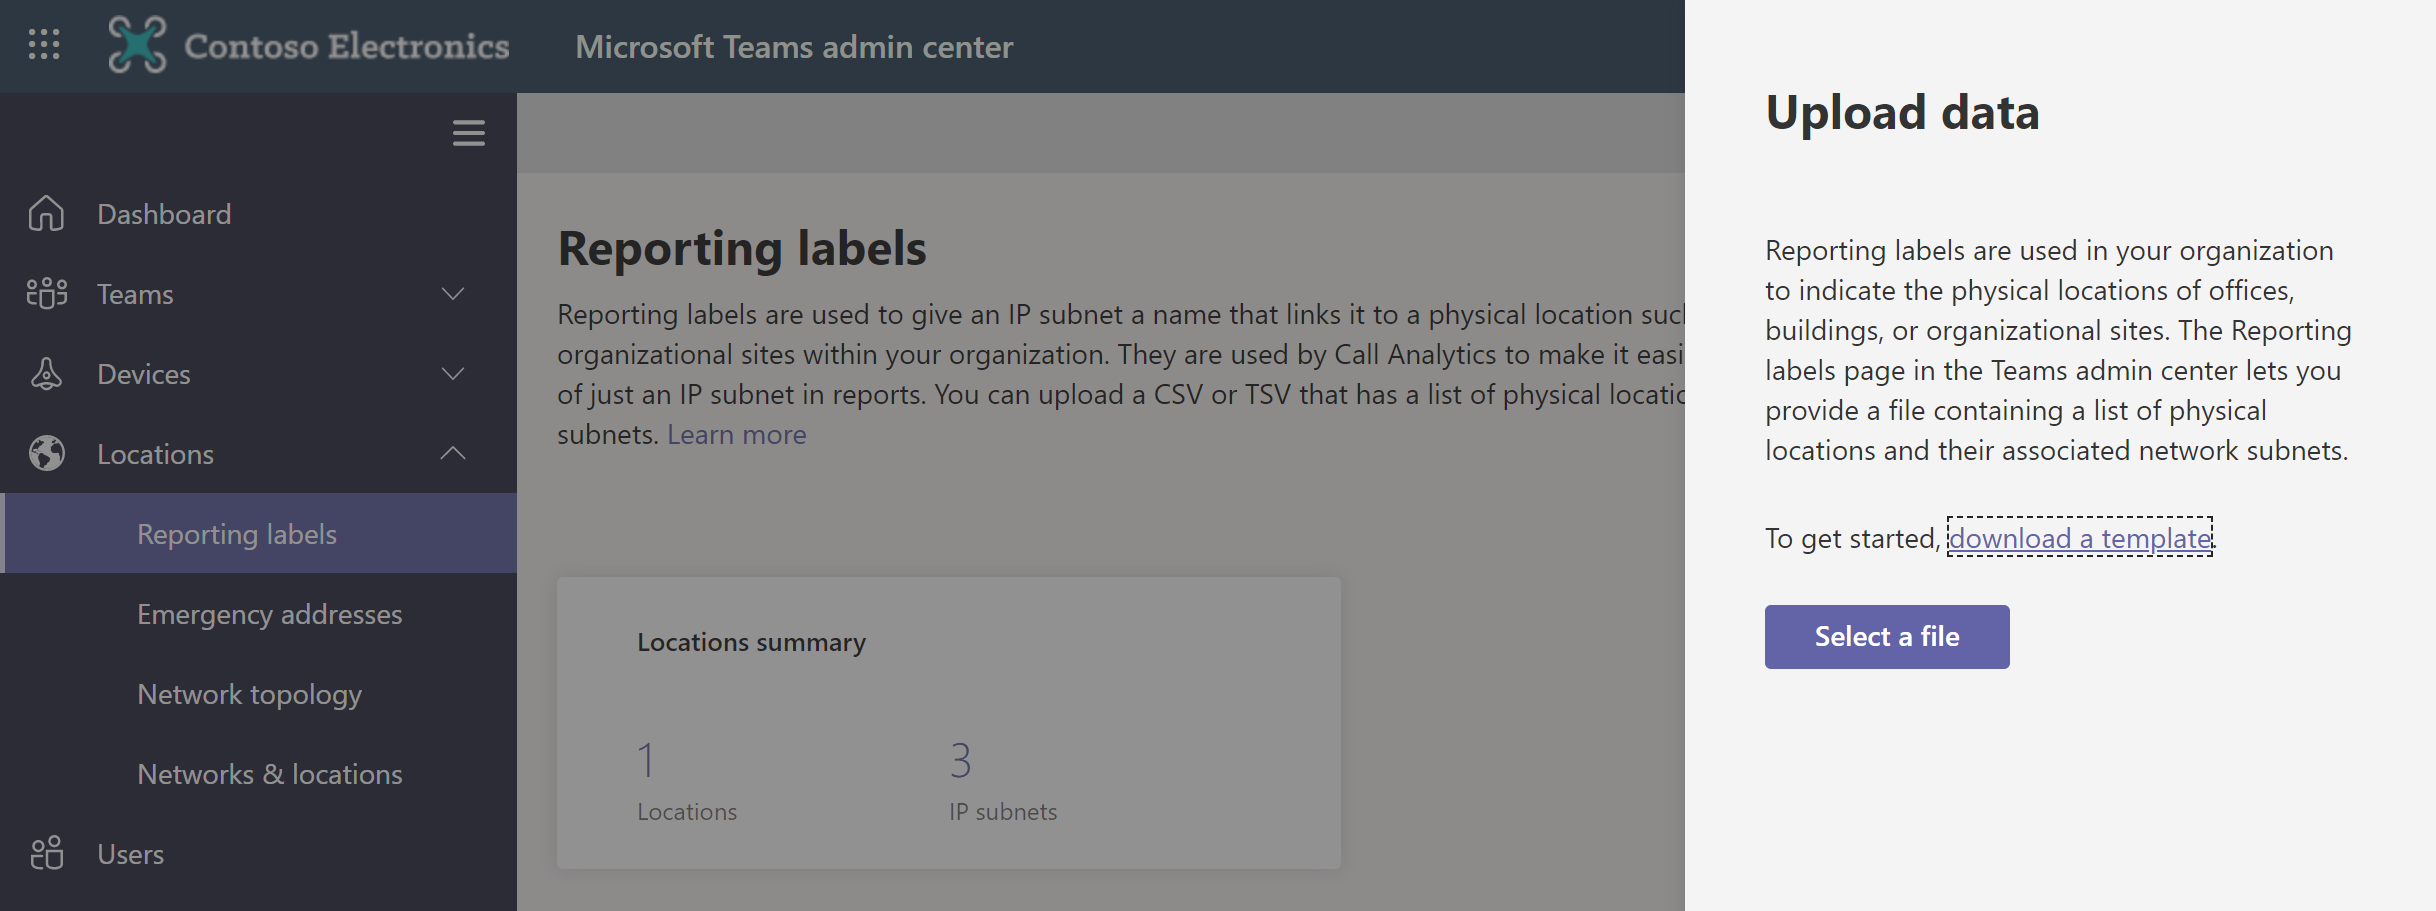
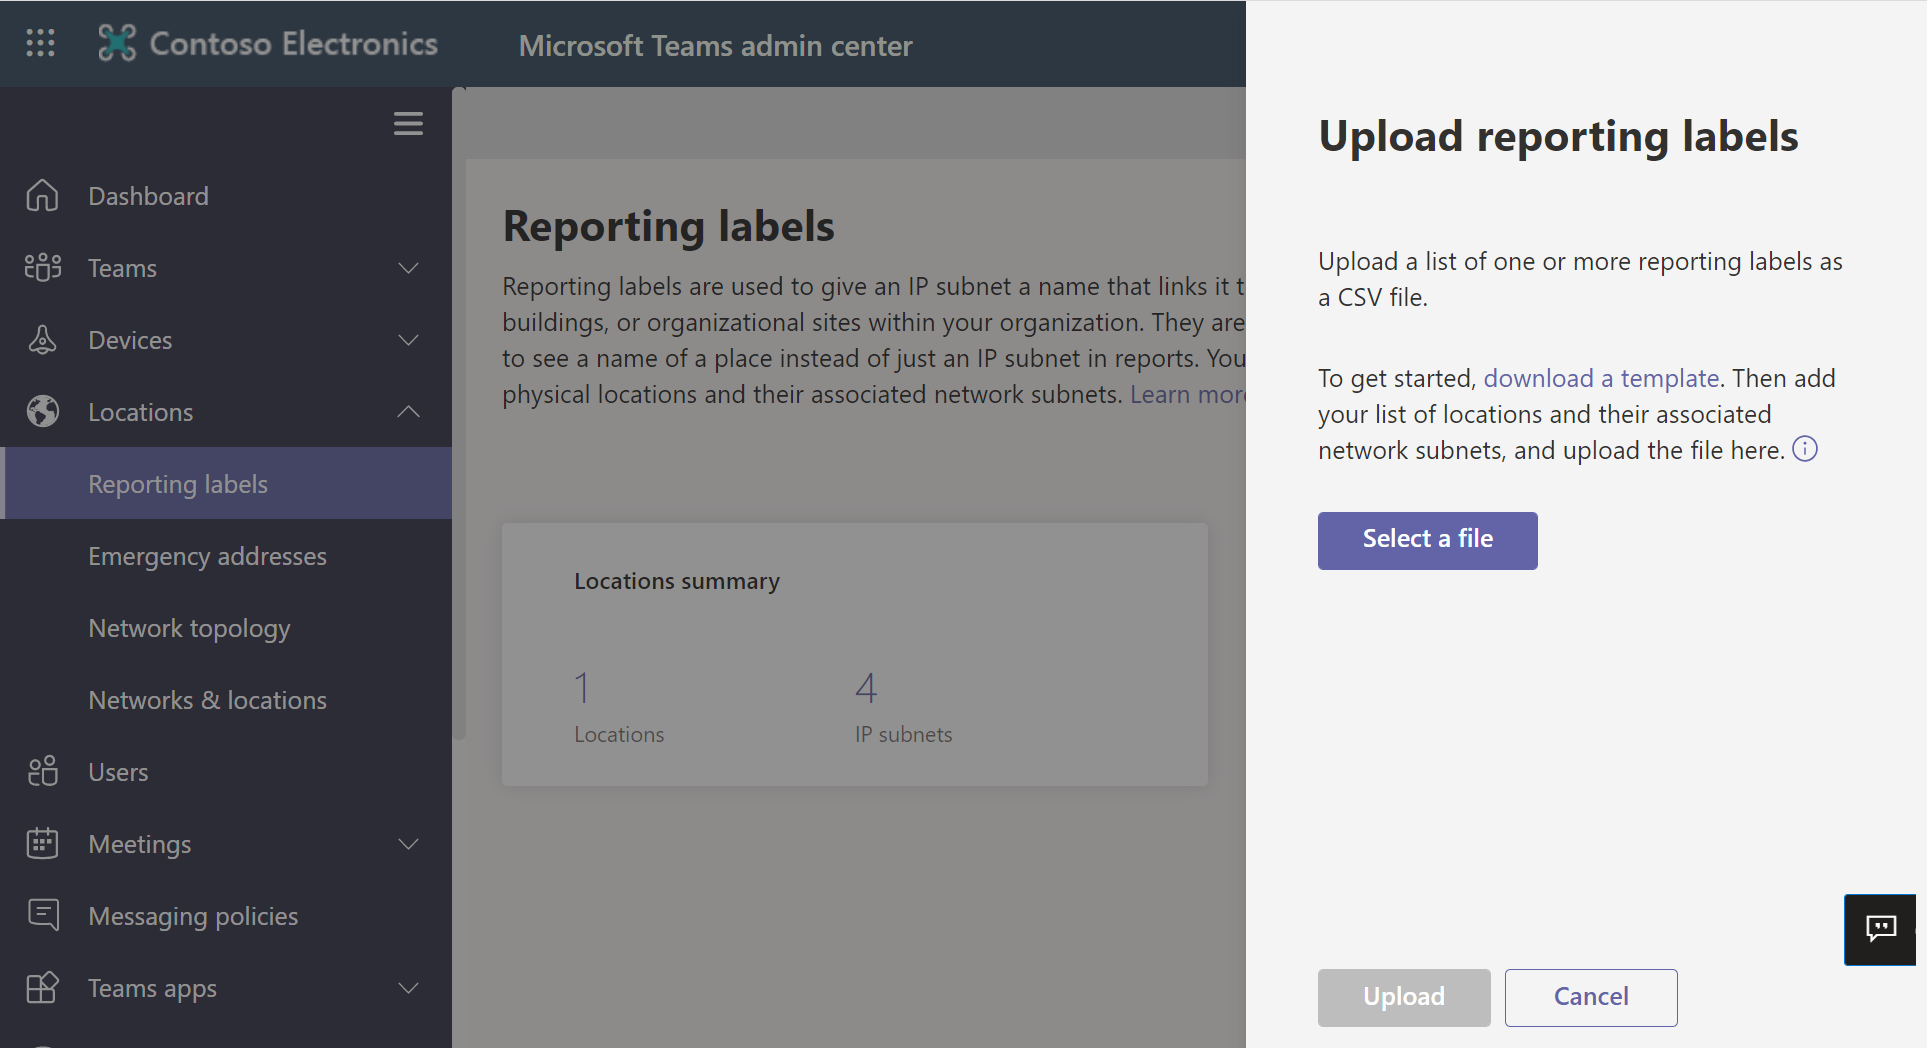
changed files by pdets auto publish service, publishid[e7d1ea6a-8ad7-4b4c-9728-d613ed62df4a] and do [publish].

diff --git a/learn-m365-pr/wwl/plan-configure-network-settings-for-microsoft-teams/includes/08-assess-network-readiness-using-network-connectivity-test-tool.md b/learn-m365-pr/wwl/plan-configure-network-settings-for-microsoft-teams/includes/08-assess-network-readiness-using-network-connectivity-test-tool.md
@@ -18,7 +18,7 @@ The network insights from the Microsoft 365 network connectivity test are run lo
 
     You can type in your location by city, state, and country or you can have it detected from the web browser. When you select the run test button, we show the running test page and identify the office location. 
 
-    :::image type="content" source="../media/network-connectivity-run-test-page.png" alt-text="Connectivity test tool":::
+    :::image type="content" source="../media/network-connectivity-run-test-page.png" alt-text="Connectivity test tool" lightbox="../media/network-connectivity-run-test-page.png":::
 
 4. Download the advanced tests client application.
 
@@ -39,7 +39,7 @@ The results are shown in the **Summary** and **Details** tabs.
 ### Summary 
 The summary tab shows a map of the detected network perimeter and a comparison of the network assessment to other Office 365 customers nearby. It also allows for sharing of the test report. Here's what the summary results view looks like:
 
-:::image type="content" source="../media/network-connectivity-test-results-summary.png" alt-text="Network connectivity test tool summary results":::
+:::image type="content" source="../media/network-connectivity-test-results-summary.png" alt-text="Network connectivity test tool summary results" lightbox="../media/network-connectivity-test-results-summary.png":::
 
 ### Detailed report 
 
@@ -68,7 +68,7 @@ For Microsoft Teams, the test results include:
 
 * **Jitter**. Shows the measured UDP jitter, which should be lower than **30ms**.
 
-    :::image type="content" source="../media/network-connectivity-detail-view.png" alt-text="Network connectivity test tool example test results for Teams":::
+    :::image type="content" source="../media/network-connectivity-detail-view.png" alt-text="Network connectivity test tool example test results for Teams" lightbox="../media/network-connectivity-detail-view.png":::
 
 ## Share network connectivity test results
 
@@ -78,7 +78,7 @@ You can share with others by selecting on of the sharing options in the **Share*
 
 * **Copy link**. Sharing with anyone using a ReportID link.
 
-    :::image type="content" source="../media/network-connectivity-test-results-page.png" alt-text="Sharing a link to your test results":::
+    :::image type="content" source="../media/network-connectivity-test-results-page.png" alt-text="Sharing a link to your test results" lightbox="../media/network-connectivity-test-results-page.png":::
 
 This sharing is enabled by default and can be disabled by administrator from **the Microsoft 365 Admin Center** > **Health** > **Network Connectivity** >  **Settings** > **Sharing and user-submitted reports**.
 

diff --git a/learn-m365-pr/wwl/plan-configure-network-settings-for-microsoft-teams/includes/06-configure-reporting-labels.md b/learn-m365-pr/wwl/plan-configure-network-settings-for-microsoft-teams/includes/06-configure-reporting-labels.md
@@ -42,8 +42,8 @@ This table below is an example, which you can follow in order to create your dat
 
 1. Sign in to **Teams admin center**.
 2. Select **Locations** > **Reporting labels**.
-3. On the **Reporting labels** page, select **Upload data**.
-4. In the **Upload data** pane, select **Select a file**, and then browse to and upload your edited .csv or .tsv file.
+3. On the **Reporting labels** page, select **Upload**.
+4. In the **Upload reporting labels** pane, select **Select a file**, and then browse to and upload your edited .csv or .tsv file.
 4. Select **Upload**.
 
 Once the file is uploaded successfully, you can see the update in the locations summary pane. 
